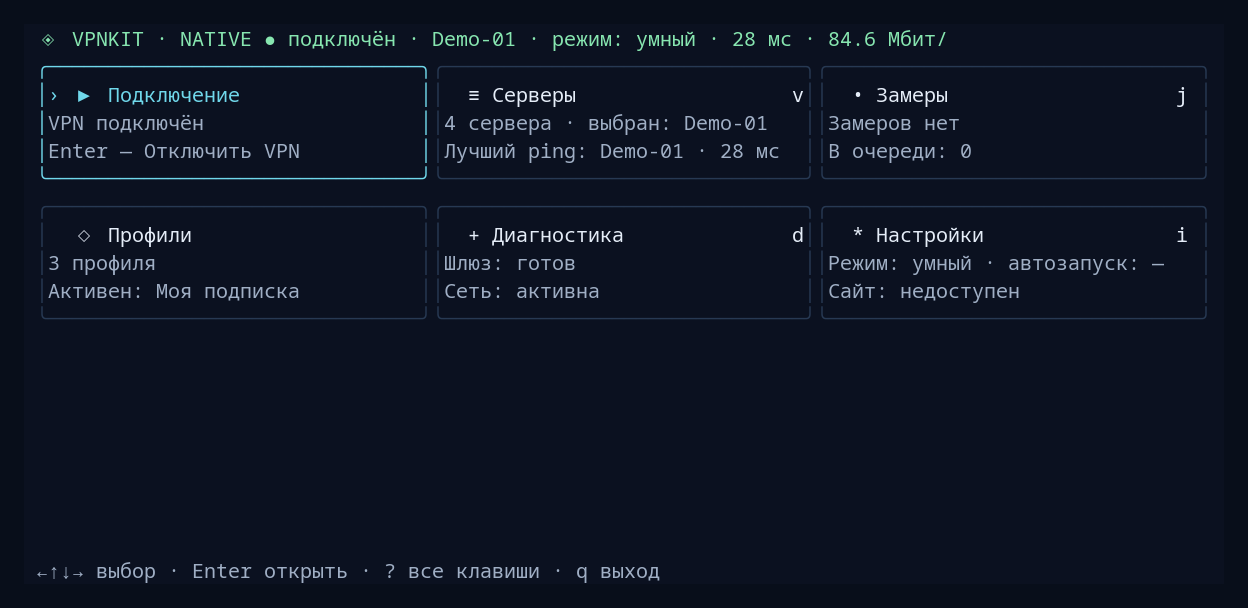
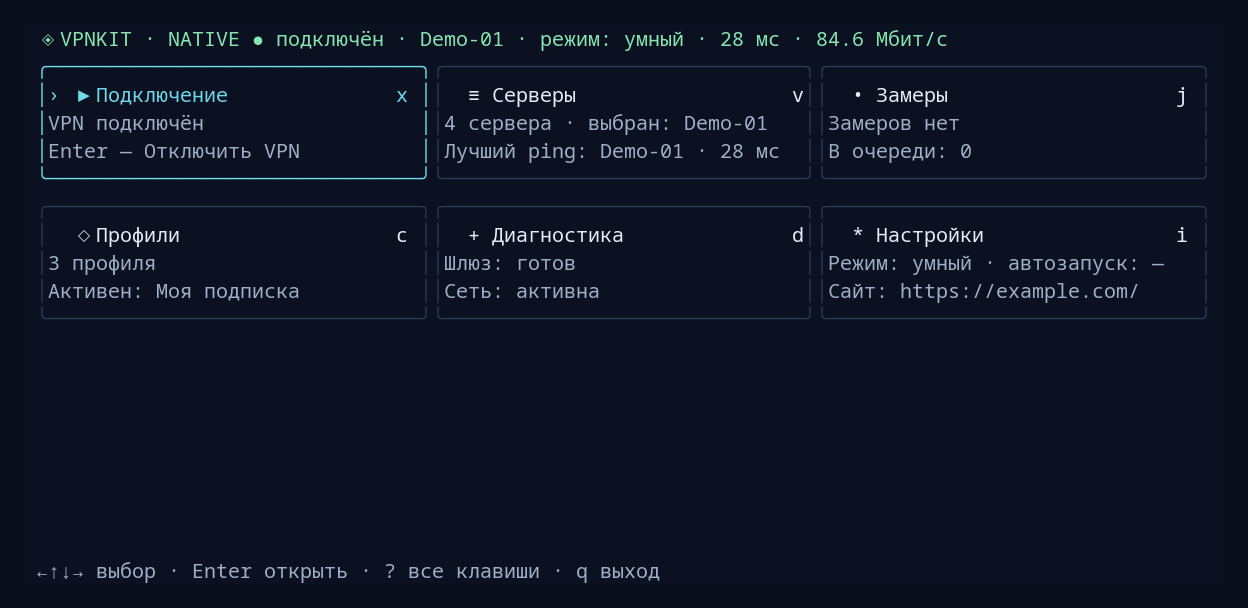
docs: regenerate screenshots with a demo check site

diff --git a/scripts/vpnkit/tui/capture-readme.ts b/scripts/vpnkit/tui/capture-readme.ts
@@ -25,7 +25,7 @@ const backend: Backend = {
 const t = await createTestRenderer({width:100,height:20});
 const app = new App(t.renderer,backend);
 try {
-  app.target = "";
+  app.target = "https://example.com/";
   await app.perform("status");
   await app.perform("profiles/list");
   await app.perform("servers/list");
